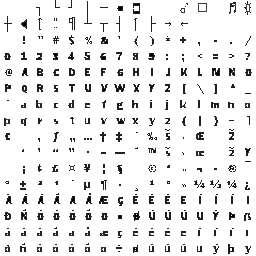
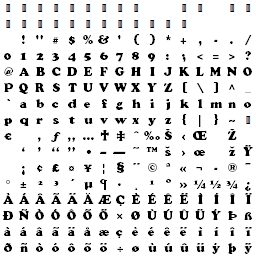
Fixed the fonts
they're better

diff --git a/SpaceQuest/src/ca/viaware/rpg/game/PlayerMovement.java b/SpaceQuest/src/ca/viaware/rpg/game/PlayerMovement.java
@@ -12,7 +12,7 @@ import ca.viaware.rpg.utilities.TextRenderer;
 
 public class PlayerMovement {
 	private boolean arrowG1 = false, arrowG2 = false;
-	private TextRenderer tRenderer = new TextRenderer(30, 0, "res/text/fonts.png");
+	private TextRenderer tRenderer = new TextRenderer(30, 0, "res/text/fontsWhite.png");
 	
 	public void checkMovement(int delta) {
 		double speed = Globals.playerEntity.getSpeed();
